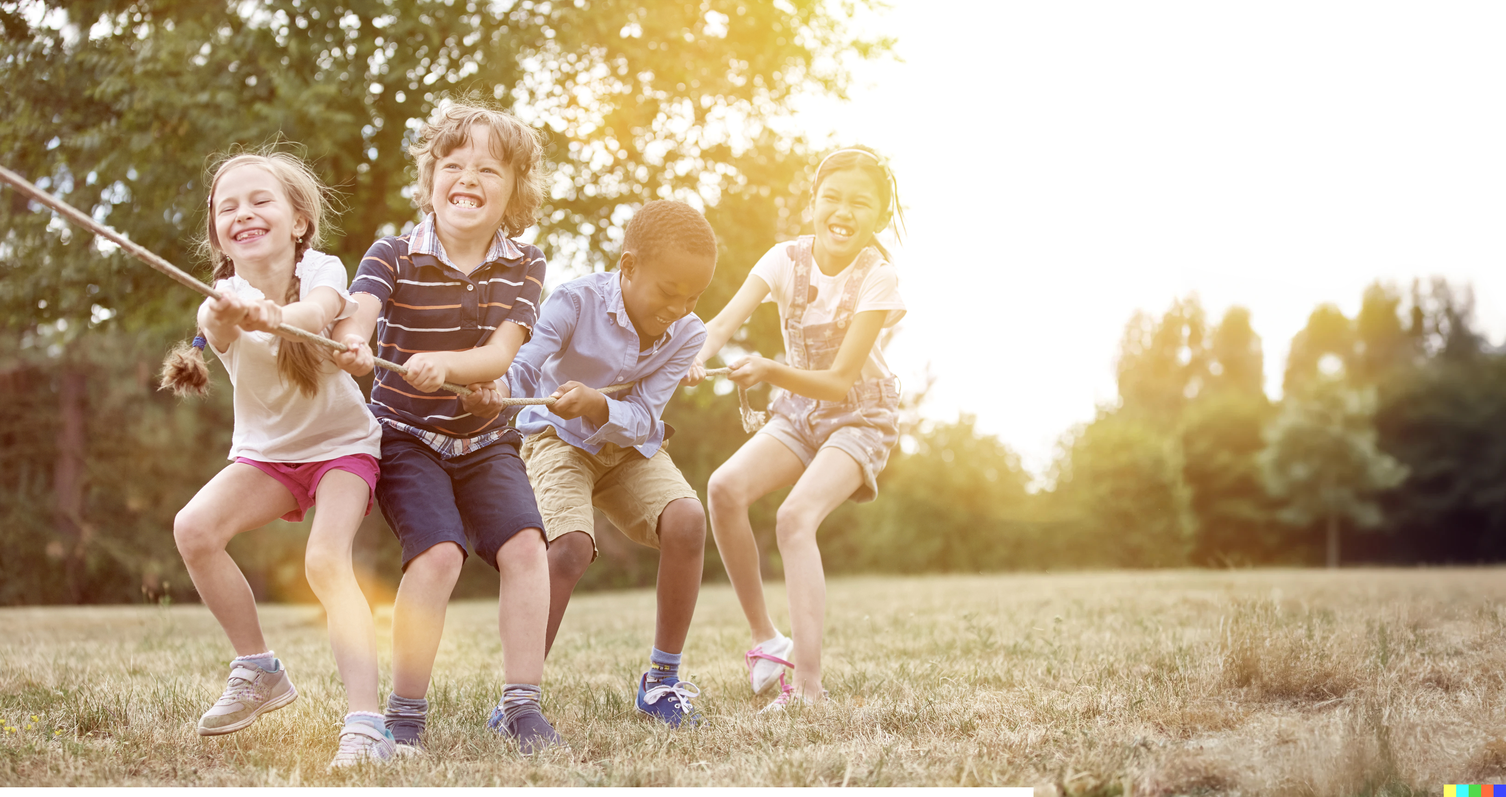
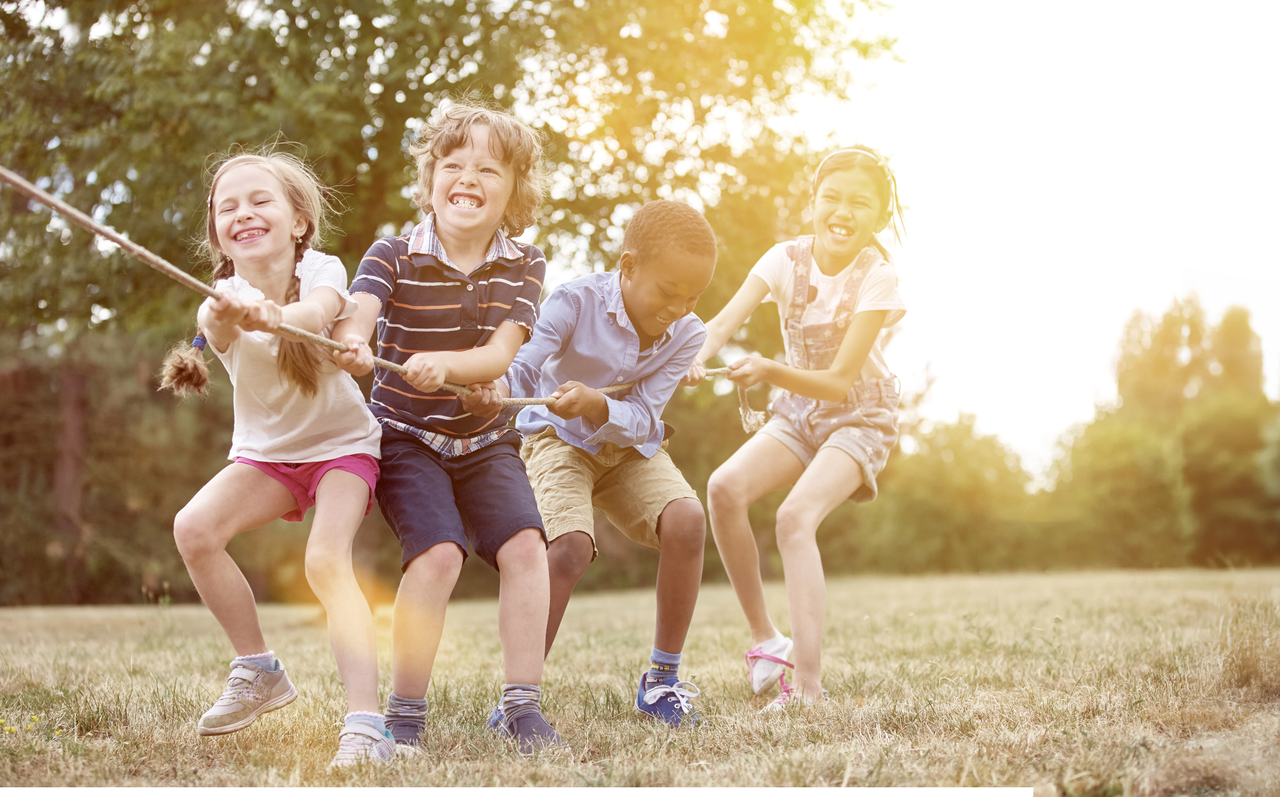
endret bilde

diff --git a/CSS/Universell.css b/CSS/Universell.css
@@ -177,7 +177,7 @@ footer p {
   height: 55rem;
   background-image: url(../Bilder/Forsideny.jpeg);
   background-repeat: no-repeat;
-  background-position: top;
+  background-position: top right;
 }
 
 .fortekst h1 {
